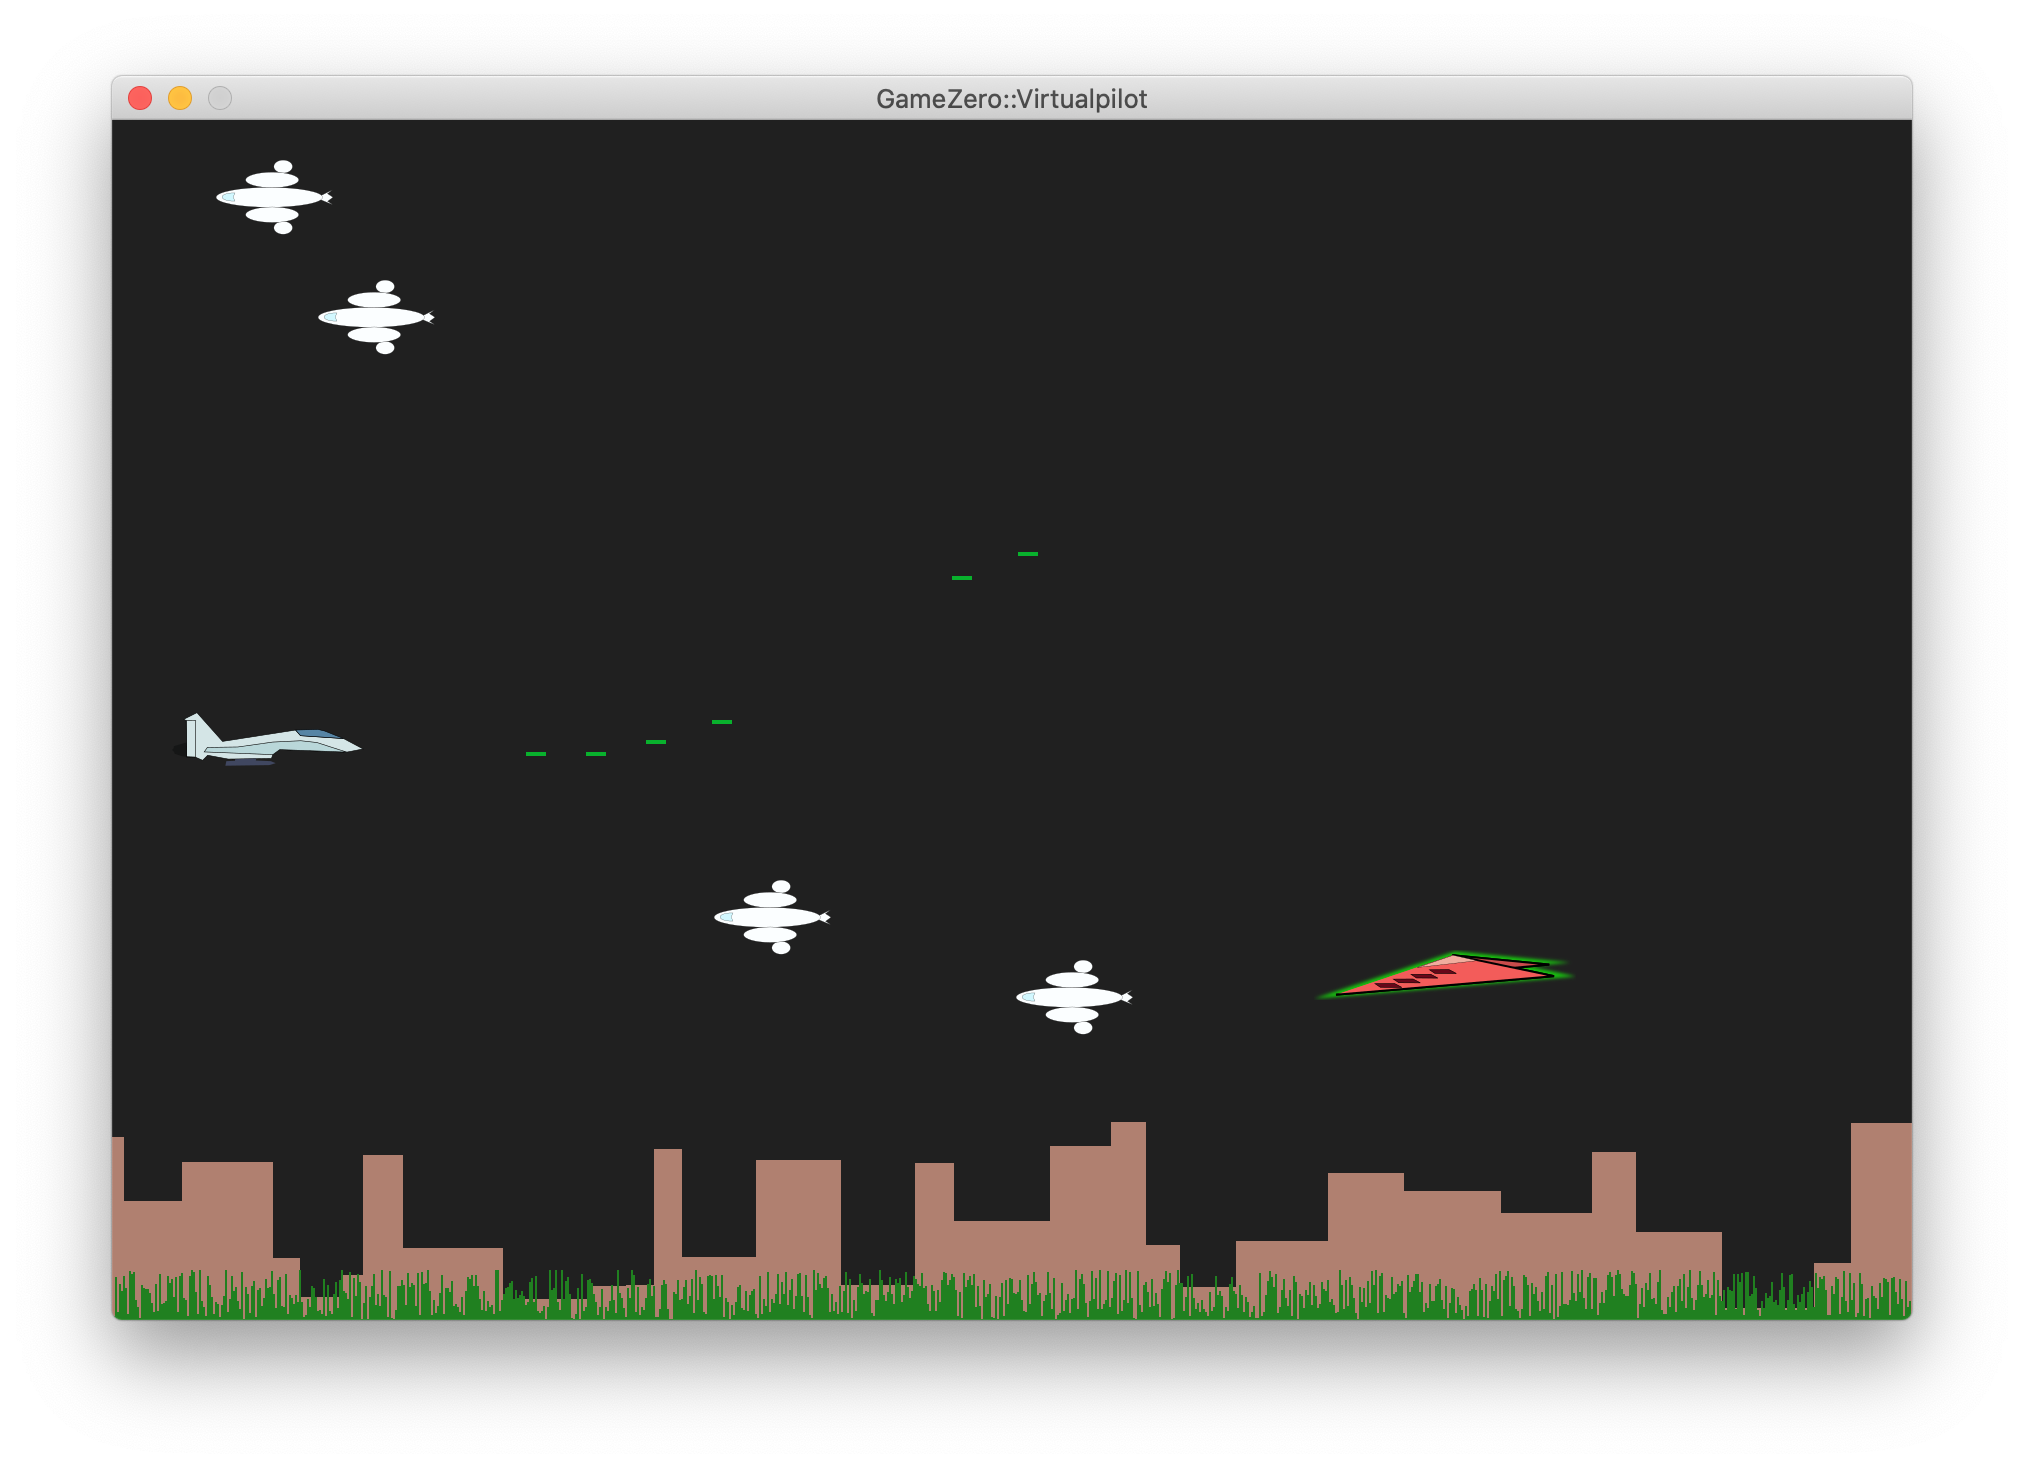
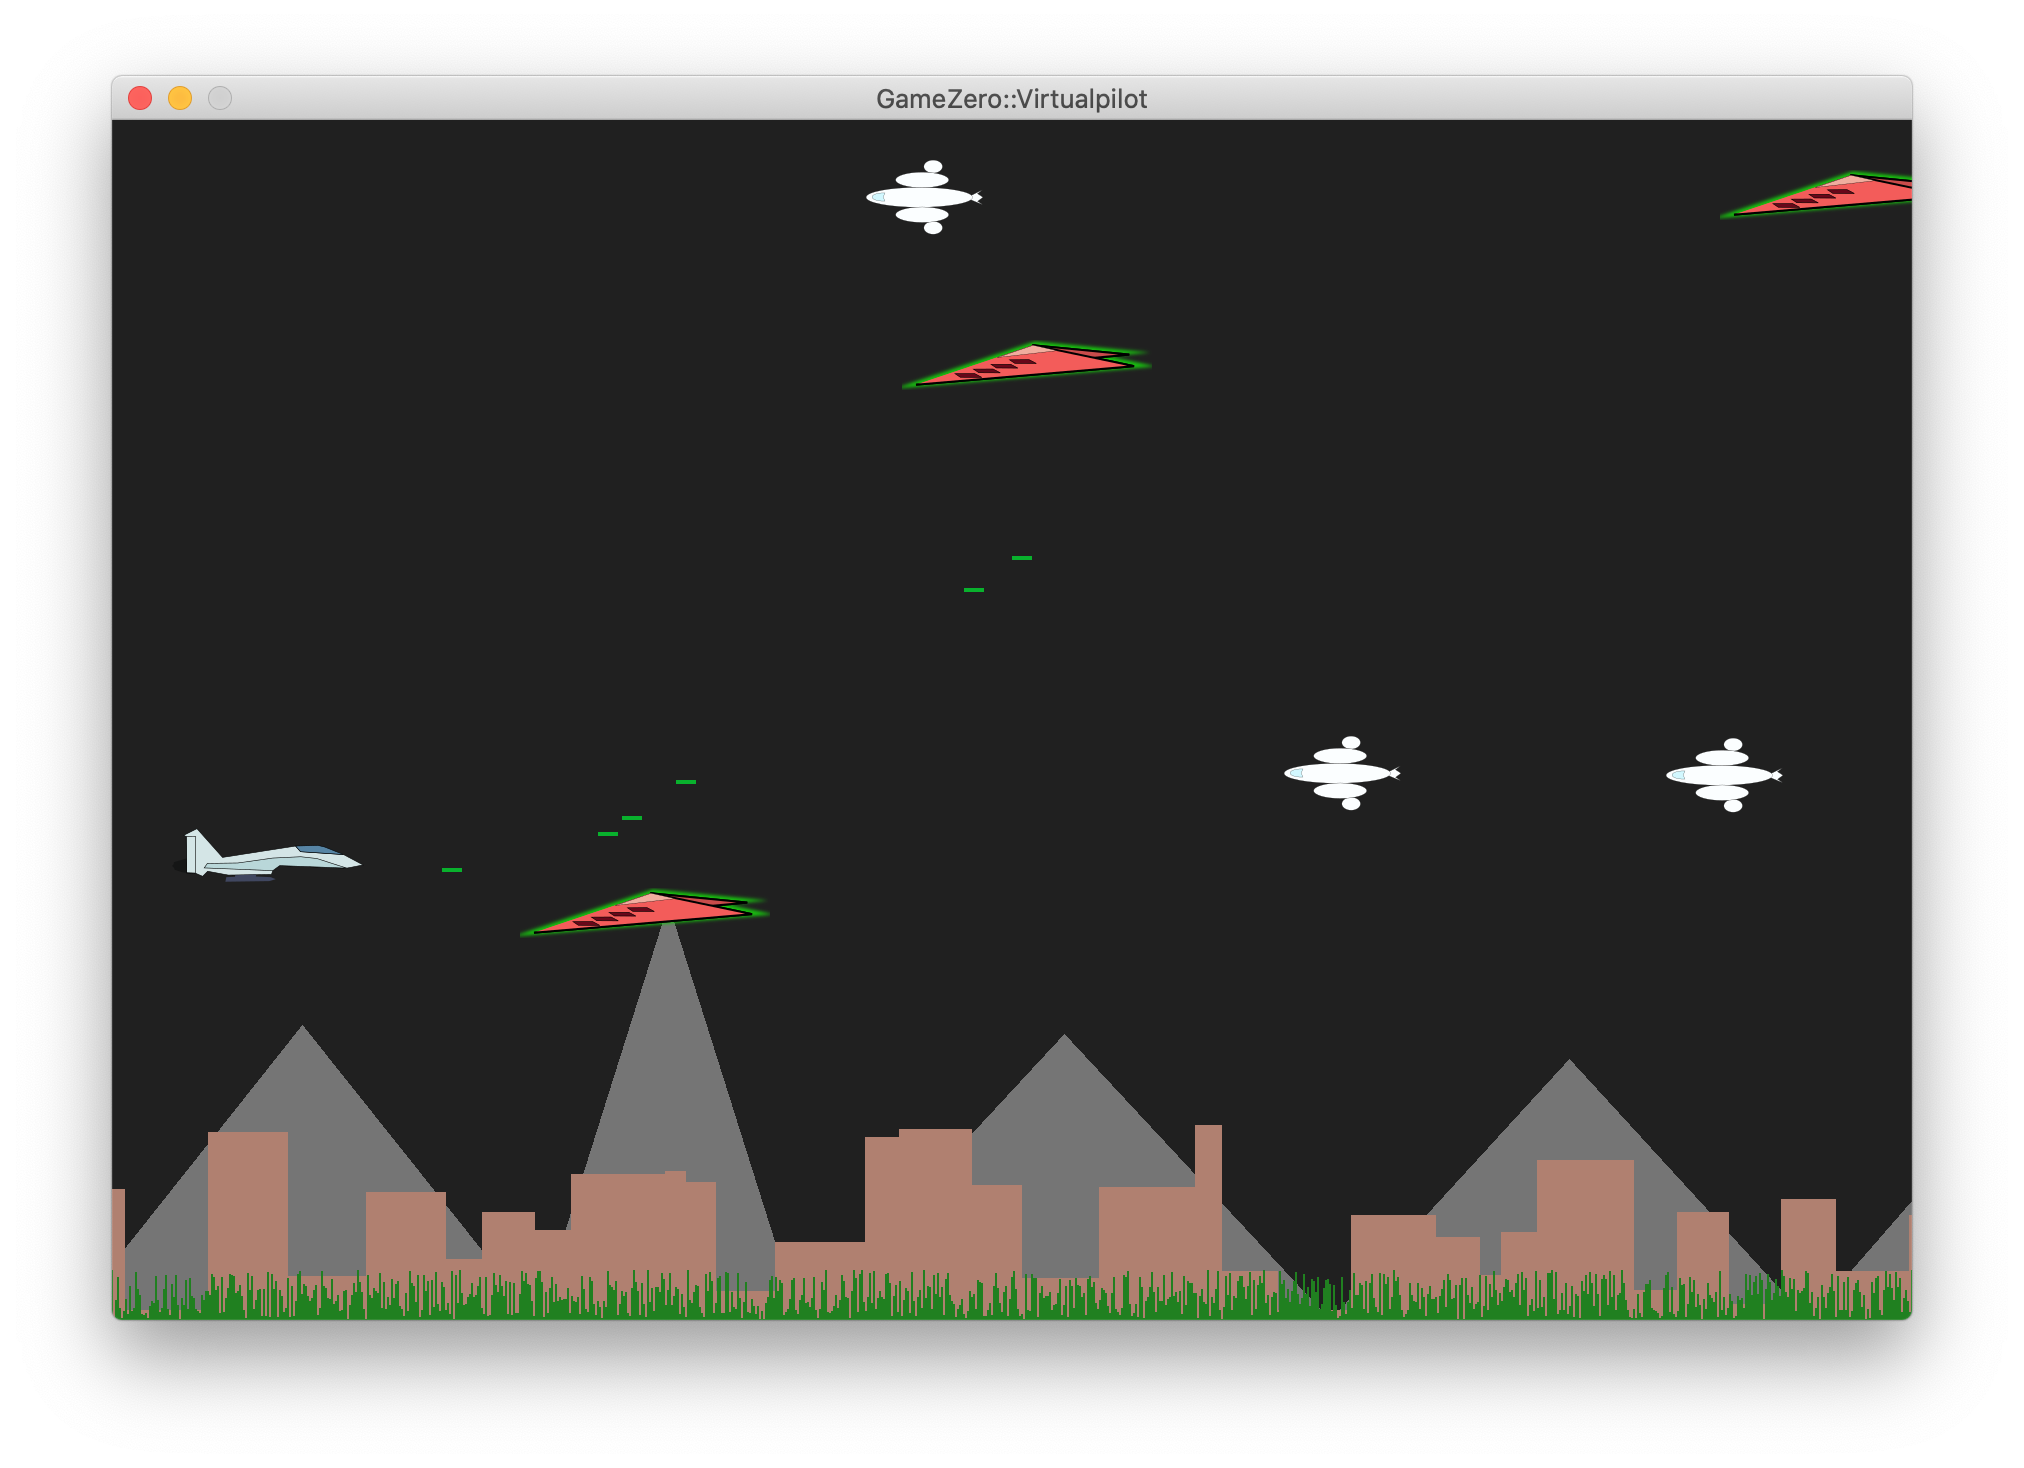
add mountains

diff --git a/README.md b/README.md
@@ -1,6 +1,6 @@
 # GZRGames.jl
 
-Suite of simple games made with GameZero.jl
+Suite of simple games made with [aviks/GameZero.jl](https://github.com/aviks/GameZero.jl/tree/master/src).
 
 ## Games
 
